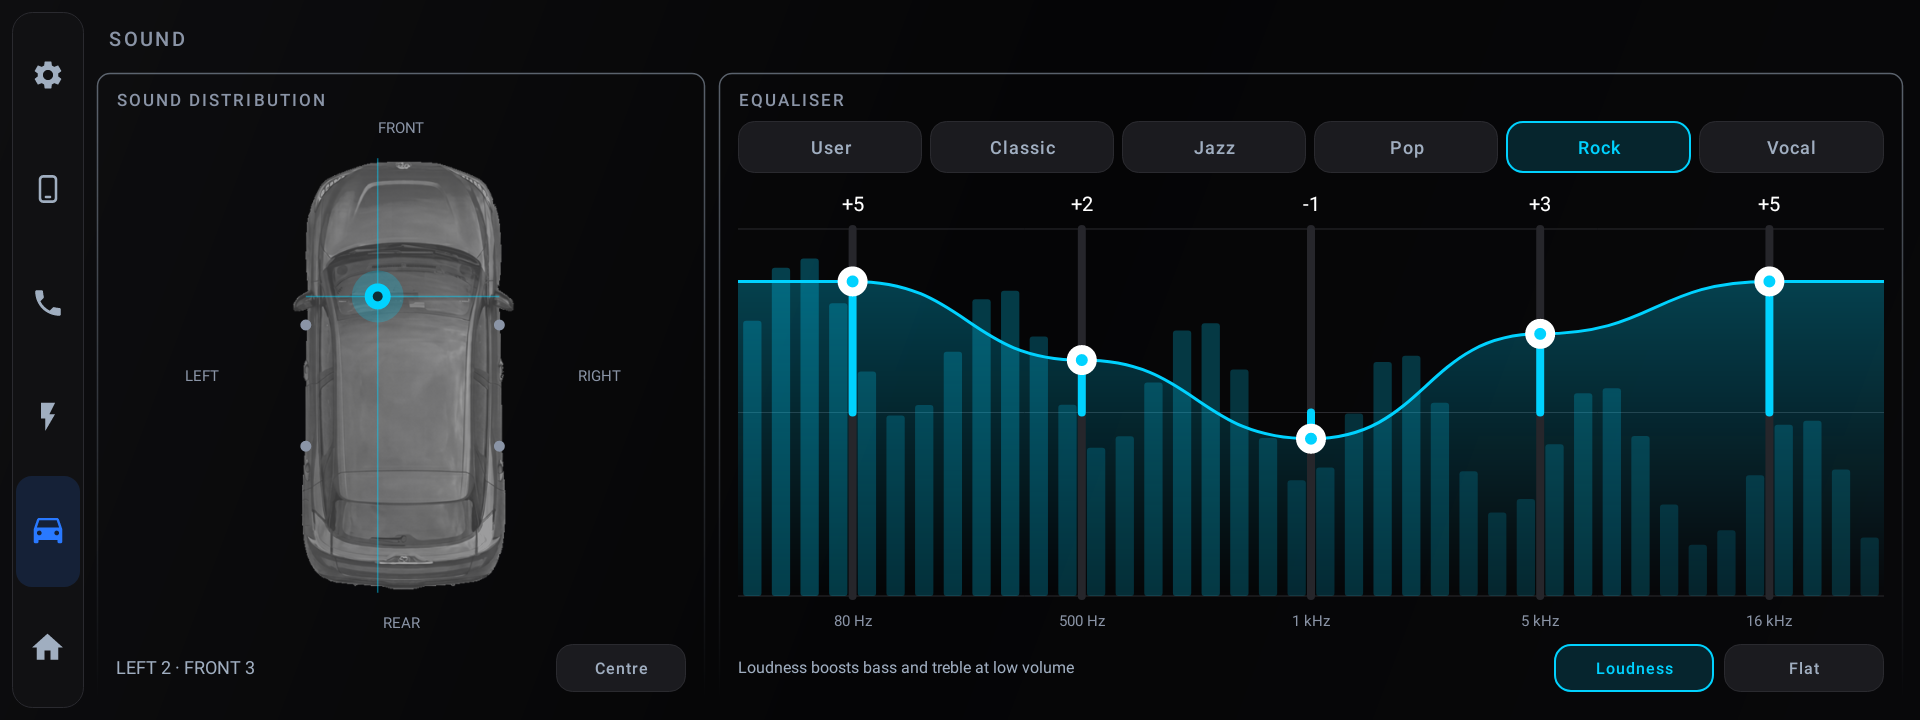
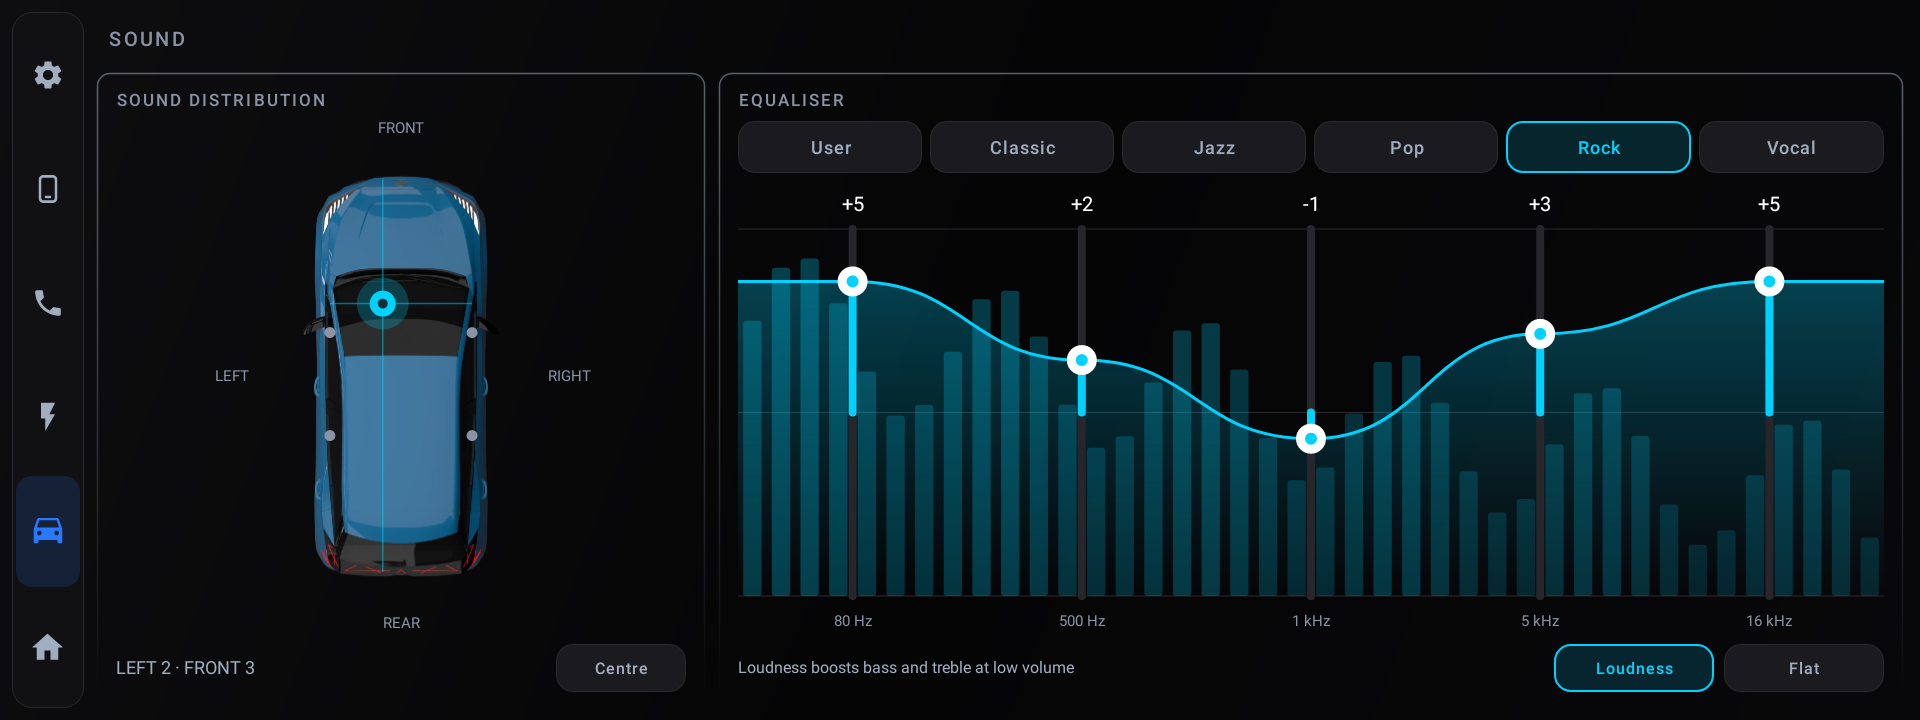
README: new Vehicle (gear, lights, driver assistance), Energy and Sound (car from above) screenshots, from the UI previews

Changed region(s): [[0.1562, 0.2139, 0.3125, 0.825], [0.0938, 0.5194, 0.125, 0.55]]

diff --git a/README.fr.md b/README.fr.md
@@ -311,7 +311,7 @@ La ligne **batterie** sous la voiture estime la santé de la batterie : en roula
 
 ![Page Véhicule](docs/screenshots/vehicle.png)
 
-Votre voiture au centre, à vos couleurs : touchez-la pour l'autre vue (trois-quarts ou profil), appui long pour **Couleurs et style** (version, jantes, toit noir, couleurs MG et fun, livrées). Pression et température des pneus sous les roues, avec un anneau rouge sur un pneu à vérifier. À gauche, mode de conduite, direction et pédale de frein (mode Perso), récupération et conduite à une pédale, économie d'énergie, maintien de voie et freinage d'urgence, chacun se change d'un toucher. À droite, autonomie, trajets du jour, état de la voiture et applis en cours de l'autoradio (touchez la section autoradio).
+Votre voiture au centre, à vos couleurs : touchez-la pour l'autre vue (trois-quarts ou profil), appui long pour **Couleurs et style** (version, jantes, toit noir, couleurs MG et fun, livrées). Pression et température des pneus sous les roues, avec un anneau rouge sur un pneu à vérifier. En haut à droite, le rapport engagé (P R N D), avec le témoin de frein de parking en P. Les feux de jour sont toujours doucement allumés ; feux allumés, en thème sombre, les phares, le feu arrière et la lumière sur la route devant s'allument aussi. À gauche, mode de conduite, direction et pédale de frein (mode Perso), récupération et conduite à une pédale, économie d'énergie, maintien de voie, freinage d'urgence, reconnaissance des panneaux et alerte de somnolence, chacun se change d'un toucher. À droite, autonomie, trajets du jour, état de la voiture et applis en cours de l'autoradio (touchez la section autoradio).
 
 ![Page Véhicule, thème clair](docs/screenshots/vehicle_light.png)
 
@@ -319,7 +319,7 @@ Votre voiture au centre, à vos couleurs : touchez-la pour l'autre vue (trois-qu
 
 ![Page Son](docs/screenshots/sound.png)
 
-Ouvrez-la depuis la page Véhicule ou par un appui long sur lecture / pause. Faites glisser le point sur la voiture pour la balance et le fader ; égaliseur 5 bandes avec les préréglages de la voiture ou votre propre courbe. Ce sont les réglages de la voiture elle-même.
+Ouvrez-la depuis la page Véhicule ou par un appui long sur lecture / pause. La voiture y est vue de dessus, à vos couleurs, livrée, toit et version. Faites glisser le point sur la voiture pour la balance et le fader ; égaliseur 5 bandes avec les préréglages de la voiture ou votre propre courbe. Ce sont les réglages de la voiture elle-même.
 
 ### Téléphone
 

diff --git a/README.md b/README.md
@@ -311,7 +311,7 @@ The **battery** line under the car estimates the battery's health: while driving
 
 ![Vehicle page](docs/screenshots/vehicle.png)
 
-Your car in the centre, in your colours: touch it for the other view (three-quarter or profile), long press it for **Colours and style** (version, wheels, black roof, MG and fun colours, liveries). Tyre pressures and temperatures hang under the wheels, with a red ring on a tyre to check. On the left, drive mode, steering and brake pedal (Custom mode), regeneration and one-pedal driving, energy saving, lane keeping and emergency braking, each changed with a touch. On the right, range, today's trips, the car's state, and the running apps of the head unit (tap the head unit section).
+Your car in the centre, in your colours: touch it for the other view (three-quarter or profile), long press it for **Colours and style** (version, wheels, black roof, MG and fun colours, liveries). Tyre pressures and temperatures hang under the wheels, with a red ring on a tyre to check. Top right, the gear engaged (P R N D), with the parking brake telltale in P. The daytime running lights always glow softly; with the lights on, in the dark theme, the headlights, the rear lamp and the light on the road ahead come on too. On the left, drive mode, steering and brake pedal (Custom mode), regeneration and one-pedal driving, energy saving, lane keeping, emergency braking, sign recognition and drowsiness warning, each changed with a touch. On the right, range, today's trips, the car's state, and the running apps of the head unit (tap the head unit section).
 
 ![Vehicle page, light theme](docs/screenshots/vehicle_light.png)
 
@@ -319,7 +319,7 @@ Your car in the centre, in your colours: touch it for the other view (three-quar
 
 ![Sound page](docs/screenshots/sound.png)
 
-Open it from the Vehicle page or with a long press on play / pause. Drag the dot on the car to set balance and fader; 5-band equaliser with the car's presets or your own curve. These are the car's own settings.
+Open it from the Vehicle page or with a long press on play / pause. The car is seen from above in your colours, livery, roof and version. Drag the dot on the car to set balance and fader; 5-band equaliser with the car's presets or your own curve. These are the car's own settings.
 
 ### Phone
 
